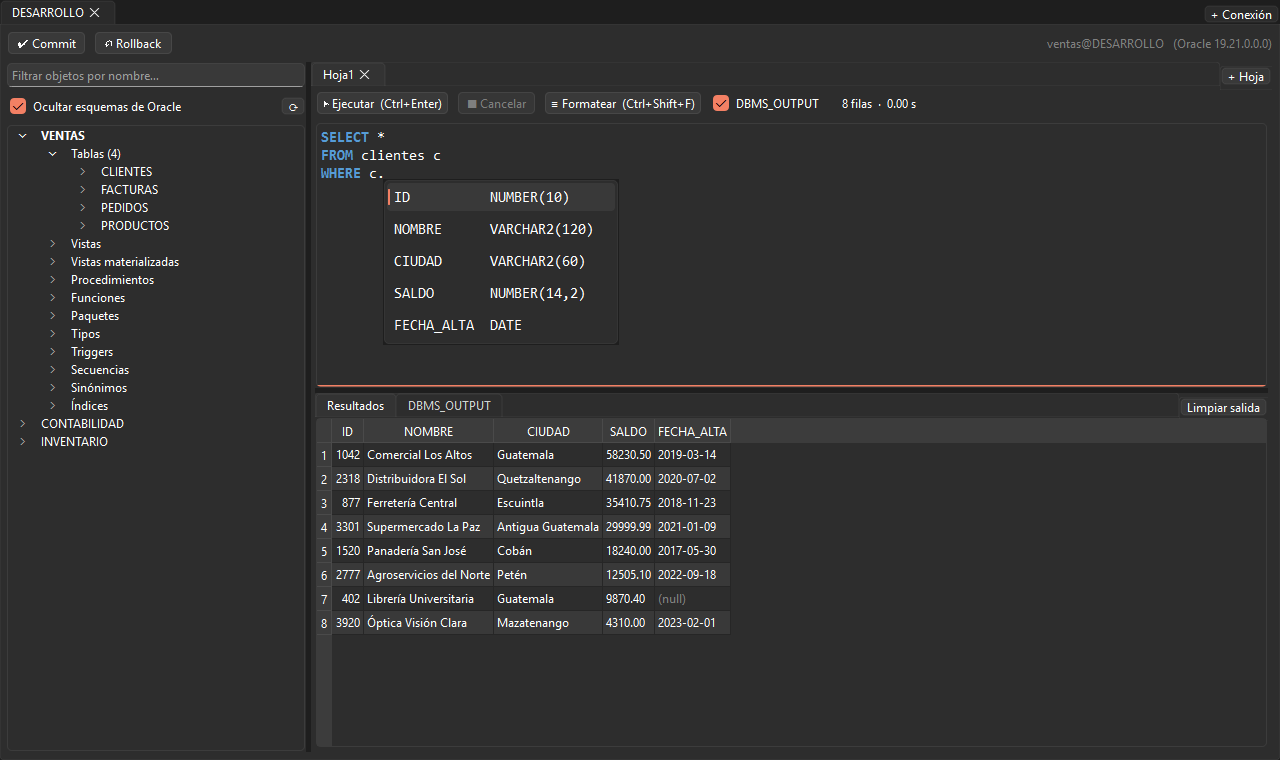
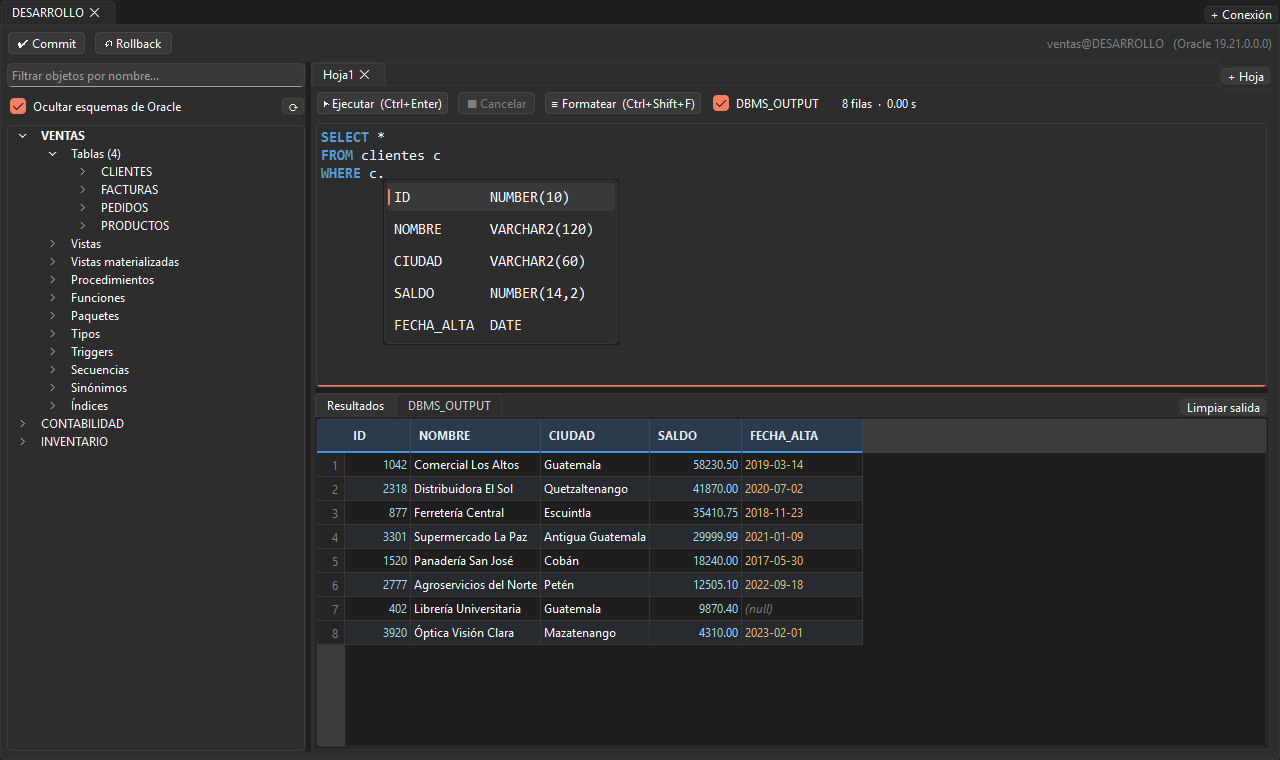
adaptacion de UI

Changed region(s): [[0.25, 0.5447, 0.6875, 0.8474]]

diff --git a/minisql/ui/results.py b/minisql/ui/results.py
@@ -1,18 +1,62 @@
-"""Tabla de resultados."""
+"""Tabla de resultados: encabezado destacado, un color por tipo de dato y ordenar con clic en el encabezado."""
+import datetime
+import numbers
 
 from PySide6.QtCore import QAbstractTableModel, QModelIndex, Qt
-from PySide6.QtGui import QColor, QGuiApplication, QKeySequence
+from PySide6.QtGui import QColor, QFont, QGuiApplication, QKeySequence
 from PySide6.QtWidgets import QAbstractItemView, QHeaderView, QTableView
 
 from ..config import MAX_CELL_CHARS
-from .style import MUTED_COLOR
+from .style import RESULT_THEME, result_stylesheet, result_theme
+
+
+def kind_of(value):
+    """Tipo de dato para elegir color y alineación: null, number, date, binary o text."""
+    if value is None:
+        return "null"
+    if isinstance(value, bool):
+        return "text"
+    if isinstance(value, numbers.Number):              # int, float y Decimal (NUMBER de Oracle)
+        return "number"
+    if isinstance(value, (datetime.date, datetime.time, datetime.timedelta)):
+        return "date"
+    if isinstance(value, (bytes, bytearray)):
+        return "binary"
+    return "text"
+
+
+def display_text(value):
+    """Cómo se ve un valor en la celda."""
+    if value is None:
+        return "(null)"
+    if isinstance(value, (bytes, bytearray)):
+        return f"<{len(value)} bytes>"
+    if isinstance(value, datetime.datetime):
+        if value.microsecond:
+            return value.isoformat(sep=" ")
+        if (value.hour, value.minute, value.second) == (0, 0, 0):
+            return value.strftime("%Y-%m-%d")             # DATE de Oracle sin hora
+        return value.strftime("%Y-%m-%d %H:%M:%S")
+    s = str(value)
+    return s if len(s) <= MAX_CELL_CHARS else s[:MAX_CELL_CHARS] + "…"
+
+
+def sort_key(value):
+    """Ordena dentro de cada tipo; si una columna mezcla tipos, no falla (los agrupa)."""
+    kind = kind_of(value)
+    if kind in ("number", "date"):
+        return (kind, value)
+    return (kind, str(value))
 
 
 class ResultModel(QAbstractTableModel):
-    def __init__(self, headers=None, rows=None):
+    def __init__(self, headers=None, rows=None, theme=None):
         super().__init__()
         self.headers = headers or []
-        self.rows = rows or []
+        self.rows = list(rows or [])
+        self.colors = {k: QColor(v) for k, v in (theme or RESULT_THEME["dark"]).items()}
+        self.italic = QFont()
+        self.italic.setItalic(True)
 
     def rowCount(self, parent=QModelIndex()):
         return 0 if parent.isValid() else len(self.rows)
@@ -25,37 +69,72 @@ class ResultModel(QAbstractTableModel):
             return None
         v = self.rows[index.row()][index.column()]
         if role == Qt.DisplayRole:
-            if v is None:
-                return "(null)"
-            if isinstance(v, bytes):
-                return f"<{len(v)} bytes>"
-            s = str(v)
-            return s if len(s) <= MAX_CELL_CHARS else s[:MAX_CELL_CHARS] + "…"
-        if role == Qt.ForegroundRole and v is None:
-            return QColor(MUTED_COLOR)
-        if role == Qt.TextAlignmentRole and isinstance(v, (int, float)) and not isinstance(v, bool):
+            return display_text(v)
+        kind = kind_of(v)
+        if role == Qt.ForegroundRole and kind != "text":
+            return self.colors[kind]
+        if role == Qt.FontRole and kind == "null":
+            return self.italic
+        if role == Qt.TextAlignmentRole and kind == "number":
             return Qt.AlignRight | Qt.AlignVCenter
+        if role == Qt.ToolTipRole and isinstance(v, str) and len(v) > MAX_CELL_CHARS:
+            return v[:4000]                                   # el texto largo completo al pasar el mouse
         return None
 
     def headerData(self, section, orientation, role=Qt.DisplayRole):
-        if role != Qt.DisplayRole:
+        if orientation == Qt.Horizontal:
+            if role == Qt.DisplayRole:
+                return self.headers[section]
+            if role == Qt.ToolTipRole:
+                return f"{self.headers[section]}\nClic para ordenar"
             return None
-        return self.headers[section] if orientation == Qt.Horizontal else section + 1
+        if role == Qt.DisplayRole:
+            return section + 1
+        if role == Qt.TextAlignmentRole:
+            return Qt.AlignRight | Qt.AlignVCenter
+        return None
+
+    def sort(self, column, order=Qt.AscendingOrder):
+        """Clic en el encabezado. Los nulos quedan siempre al final."""
+        if not 0 <= column < len(self.headers):
+            return
+        self.layoutAboutToBeChanged.emit()
+        values = [r for r in self.rows if r[column] is not None]
+        nulls = [r for r in self.rows if r[column] is None]
+        values.sort(key=lambda r: sort_key(r[column]), reverse=order == Qt.DescendingOrder)
+        self.rows = values + nulls
+        self.layoutChanged.emit()
 
 
 class ResultView(QTableView):
     def __init__(self):
         super().__init__()
+        self.theme = result_theme(self)
+        self.setStyleSheet(result_stylesheet(self.theme))
         self.setSelectionMode(QAbstractItemView.ExtendedSelection)
         self.setAlternatingRowColors(True)
-        self.horizontalHeader().setSectionResizeMode(QHeaderView.Interactive)
+        header = self.horizontalHeader()
+        header.setSectionResizeMode(QHeaderView.Interactive)
+        header.setHighlightSections(False)
+        header.setDefaultAlignment(Qt.AlignLeft | Qt.AlignVCenter)
+        header.setMinimumHeight(28)
         self.verticalHeader().setDefaultSectionSize(22)
         # Al ajustar columnas, medir solo las primeras filas: medir 1000 filas traba la interfaz.
-        self.horizontalHeader().setResizeContentsPrecision(100)
+        header.setResizeContentsPrecision(100)
         self.verticalHeader().setResizeContentsPrecision(100)
+        self._unsorted()
+        self.setSortingEnabled(True)
+
+    def _unsorted(self):
+        """Sin columna de orden: los resultados quedan en el orden de la consulta (su ORDER BY)."""
+        self.horizontalHeader().setSortIndicator(-1, Qt.AscendingOrder)
+
+    def setModel(self, model):
+        self._unsorted()                 # cada resultado nuevo llega en su orden, sin reordenar
+        super().setModel(model)
 
     def show_rows(self, headers, rows):
-        model = ResultModel(headers, rows)
+        model = ResultModel(headers, rows, self.theme)
         self.setModel(model)
         self.fit_columns()
         return model

diff --git a/tests/test_results.py b/tests/test_results.py
@@ -1,0 +1,76 @@
+"""Tabla de resultados: colores por tipo, formato de valores y ordenar con clic en el encabezado."""
+import datetime
+from decimal import Decimal
+
+from PySide6.QtCore import Qt
+from PySide6.QtGui import QGuiApplication
+
+from minisql.ui.results import ResultModel, ResultView, display_text, kind_of
+from minisql.ui.style import RESULT_THEME
+
+ROWS = [
+    (3, "Carla", Decimal("150.75"), datetime.datetime(2024, 1, 5)),
+    (1, "Ana", None, datetime.datetime(2023, 7, 9, 14, 30, 0)),
+    (2, "beto", Decimal("99.5"), None),
+]
+HEADERS = ["ID", "NOMBRE", "SALDO", "FECHA"]
+
+
+def test_value_kinds_and_display():
+    assert [kind_of(v) for v in (None, 3, Decimal("1.5"), 2.5, True, "x", b"ab")] == \
+        ["null", "number", "number", "number", "text", "text", "binary"]
+    assert kind_of(datetime.date(2024, 1, 1)) == kind_of(datetime.datetime(2024, 1, 1)) == "date"
+    assert display_text(datetime.datetime(2024, 1, 5)) == "2024-01-05"                  # DATE sin hora
+    assert display_text(datetime.datetime(2023, 7, 9, 14, 30)) == "2023-07-09 14:30:00"
+    assert display_text(None) == "(null)" and display_text(b"abc") == "<3 bytes>"
+    assert display_text("x" * 500).endswith("…")
+
+
+def test_colors_alignment_and_header():
+    model = ResultModel(HEADERS, ROWS, RESULT_THEME["dark"])
+    cell = model.index
+    assert model.data(cell(0, 2), Qt.TextAlignmentRole) == Qt.AlignRight | Qt.AlignVCenter    # Decimal a la derecha
+    assert model.data(cell(0, 2), Qt.ForegroundRole).name() == RESULT_THEME["dark"]["number"]
+    assert model.data(cell(0, 3), Qt.ForegroundRole).name() == RESULT_THEME["dark"]["date"]
+    assert model.data(cell(1, 2), Qt.FontRole).italic()                                     # (null) en cursiva
+    assert model.data(cell(0, 1), Qt.ForegroundRole) is None                                # texto: color normal
+    assert model.headerData(1, Qt.Horizontal) == "NOMBRE"
+    assert "ordenar" in model.headerData(1, Qt.Horizontal, Qt.ToolTipRole)
+    assert model.headerData(0, Qt.Vertical) == 1
+
+
+def test_sort_keeps_nulls_last_and_handles_mixed_types():
+    model = ResultModel(HEADERS, ROWS)
+    model.sort(2, Qt.AscendingOrder)
+    assert [r[0] for r in model.rows] == [2, 3, 1]          # 99.5, 150.75, null
+    model.sort(2, Qt.DescendingOrder)
+    assert [r[0] for r in model.rows] == [3, 2, 1]          # el null sigue al final
+    model.sort(1, Qt.AscendingOrder)
+    assert [r[1] for r in model.rows] == ["Ana", "Carla", "beto"]
+    mixed = ResultModel(["X"], [("b",), (2,), (None,), ("a",), (1,)])
+    mixed.sort(0)                                           # no falla al mezclar números y texto
+    assert mixed.rows[-1] == (None,)
+    model.sort(-1)                                          # sin columna: no hace nada
+    assert len(model.rows) == 3
+
+
+def test_results_arrive_in_query_order_and_sort_on_click(app):
+    view = ResultView()
+    model = view.show_rows(HEADERS, ROWS)
+    assert [r[0] for r in model.rows] == [3, 1, 2]                  # el ORDER BY de la consulta se respeta
+    assert view.horizontalHeader().sortIndicatorSection() == -1
+    view.sortByColumn(0, Qt.AscendingOrder)                         # lo mismo que hacer clic en ID
+    assert [r[0] for r in view.model().rows] == [1, 2, 3]
+    view.selectRow(0)
+    view.copy_selection()
+    assert QGuiApplication.clipboard().text().startswith("1\tAna")   # se copia lo que se ve, ya ordenado
+    model = view.show_rows(HEADERS, ROWS)                            # un resultado nuevo: sin reordenar
+    assert [r[0] for r in model.rows] == [3, 1, 2]
+    assert view.horizontalHeader().sortIndicatorSection() == -1
+
+
+def test_header_is_styled(app):
+    view = ResultView()
+    style = view.styleSheet()
+    assert "QHeaderView::section:horizontal" in style and "font-weight: bold" in style
+    assert view.theme["header_line"] in style

diff --git a/minisql/ui/style.py b/minisql/ui/style.py
@@ -34,3 +34,49 @@ class StatusLabel(QLabel):
 
     def error(self, text):
         self.show_message(text, ERROR_COLOR)
+
+
+# ---------------------------------------------------------------- tabla de resultados
+
+# Colores de la tabla por tema: encabezado destacado y un color por tipo de dato
+RESULT_THEME = {
+    "dark": {
+        "header_bg": "#2b3a4d", "header_fg": "#e6edf5", "header_line": "#4a90d9", "header_sep": "#3b4b60",
+        "rownum_bg": "#252526", "rownum_fg": "#7f7f7f",
+        "base": "#1e1e1e", "alt": "#272a2f", "grid": "#363636",
+        "selection": "#264f78", "selection_fg": "#ffffff",
+        "number": "#9cdcfe", "date": "#e5c07b", "null": "#7f7f7f", "binary": "#c586c0",
+    },
+    "light": {
+        "header_bg": "#e7eef7", "header_fg": "#1b2a3a", "header_line": "#3b7dd8", "header_sep": "#cbd6e3",
+        "rownum_bg": "#f3f3f3", "rownum_fg": "#8a8a8a",
+        "base": "#ffffff", "alt": "#f5f8fc", "grid": "#e1e4e8",
+        "selection": "#cce4ff", "selection_fg": "#000000",
+        "number": "#0451a5", "date": "#8a5a00", "null": "#9a9a9a", "binary": "#a626a4",
+    },
+}
+
+
+def result_theme(widget):
+    return RESULT_THEME["dark" if is_dark(widget) else "light"]
+
+
+def result_stylesheet(t):
+    return f"""
+        QTableView {{
+            background-color: {t['base']}; alternate-background-color: {t['alt']};
+            gridline-color: {t['grid']};
+            selection-background-color: {t['selection']}; selection-color: {t['selection_fg']};
+        }}
+        QHeaderView::section:horizontal {{
+            background-color: {t['header_bg']}; color: {t['header_fg']}; font-weight: bold;
+            padding: 4px 8px; border: none;
+            border-right: 1px solid {t['header_sep']}; border-bottom: 2px solid {t['header_line']};
+        }}
+        QHeaderView::section:vertical {{
+            background-color: {t['rownum_bg']}; color: {t['rownum_fg']};
+            padding: 0 6px; border: none; border-right: 1px solid {t['grid']}; border-bottom: 1px solid {t['grid']};
+        }}
+        QTableCornerButton::section {{
+            background-color: {t['header_bg']}; border: none; border-bottom: 2px solid {t['header_line']};
+        }}"""
